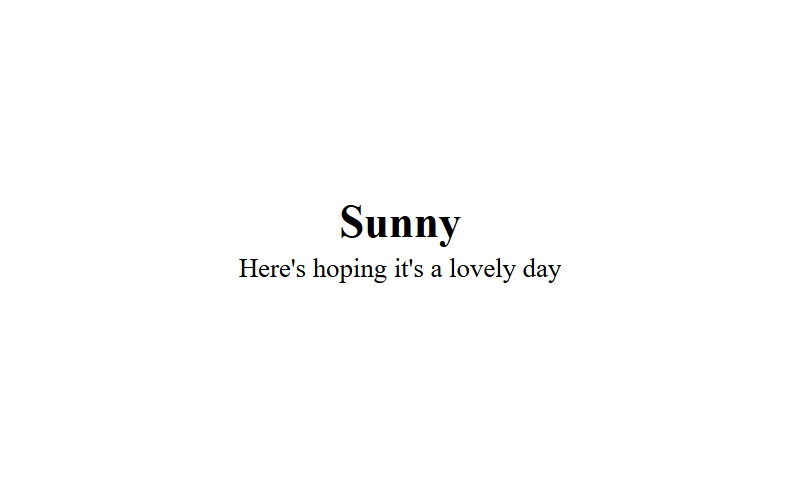
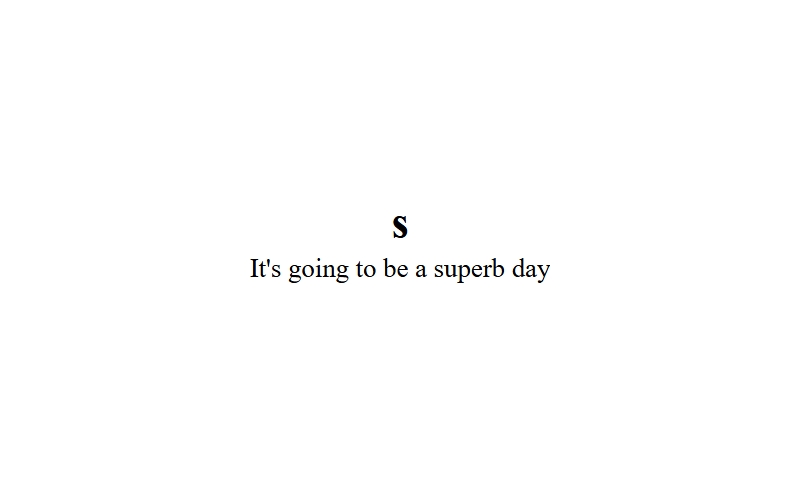
refactor: push code out to dedicated class

Changed region(s): [[0.2812, 0.4375, 0.7188, 0.5938]]

diff --git a/src/plugins/burnsyweather/burnsyweather.py b/src/plugins/burnsyweather/burnsyweather.py
@@ -1,5 +1,6 @@
 from plugins.base_plugin.base_plugin import BasePlugin
 from utils.app_utils import resolve_path
+from plugins.burnsyweather.WeatherGetter import WeatherGetter
 
 # from PIL import Image, ImageDraw, ImageFont
 from utils.image_utils import resize_image
@@ -13,17 +14,9 @@ import os
 logger = logging.getLogger(__name__)
 
 class BurnsyWeather(BasePlugin):
-    # def generate_settings_template(self):
-    #     template_params = super().generate_settings_template()
-    #     template_params['api_key'] = {
-    #         "required": True,
-    #         "service": "OpenAI",
-    #         "expected_key": "OPEN_AI_SECRET"
-    #     }
-    #     template_params['style_settings'] = True
-    #     return template_params
 
     def generate_image(self, settings, device_config):
+        
         # api_key = device_config.load_env_key("OPEN_AI_SECRET")
         # if not api_key:
         #     raise RuntimeError("OPEN AI API Key not configured.")
@@ -32,28 +25,11 @@ class BurnsyWeather(BasePlugin):
         if not title:
             raise RuntimeError("Title is required.")
 
-        # text_model = settings.get('textModel')
-        # if not text_model:
-        #     raise RuntimeError("Text Model is required.")
-
-        # text_prompt = settings.get('textPrompt', '')
-        # if not text_prompt.strip():
-        #     raise RuntimeError("Text Prompt is required.")
-
-        # try:
-        #     ai_client = OpenAI(api_key = api_key)
-        #     prompt_response = AIText.fetch_text_prompt(ai_client, text_model, text_prompt)
-        # except Exception as e:
-        #     logger.error(f"Failed to make Open AI request: {str(e)}")
-        #     raise RuntimeError("Open AI request failure, please check logs.")
-
-        prompt_response ="Here's hoping it's a lovely day"
-
-
+        content = self.get_content()
 
         image_template_params = {
             "title": title,
-            "content": prompt_response,
+            "content": content,
             "plugin_settings": settings
         }
 
@@ -64,3 +40,18 @@ class BurnsyWeather(BasePlugin):
         image = self.render_image(dimensions, "burnsyweather.html", "burnsyweather.css", image_template_params)
 
         return image
+
+    def get_content(self):
+        weather_getter = WeatherGetter()
+        return weather_getter.get_content()
+        
+    
+    # def generate_settings_template(self):
+    #     template_params = super().generate_settings_template()
+    #     template_params['api_key'] = {
+    #         "required": True,
+    #         "service": "OpenAI",
+    #         "expected_key": "OPEN_AI_SECRET"
+    #     }
+    #     template_params['style_settings'] = True
+    #     return template_params

diff --git a/src/plugins/burnsyweather/WeatherGetter.py b/src/plugins/burnsyweather/WeatherGetter.py
@@ -1,0 +1,4 @@
+class WeatherGetter:
+    def get_content(self):
+     
+        return "It's going to be a superb day"
